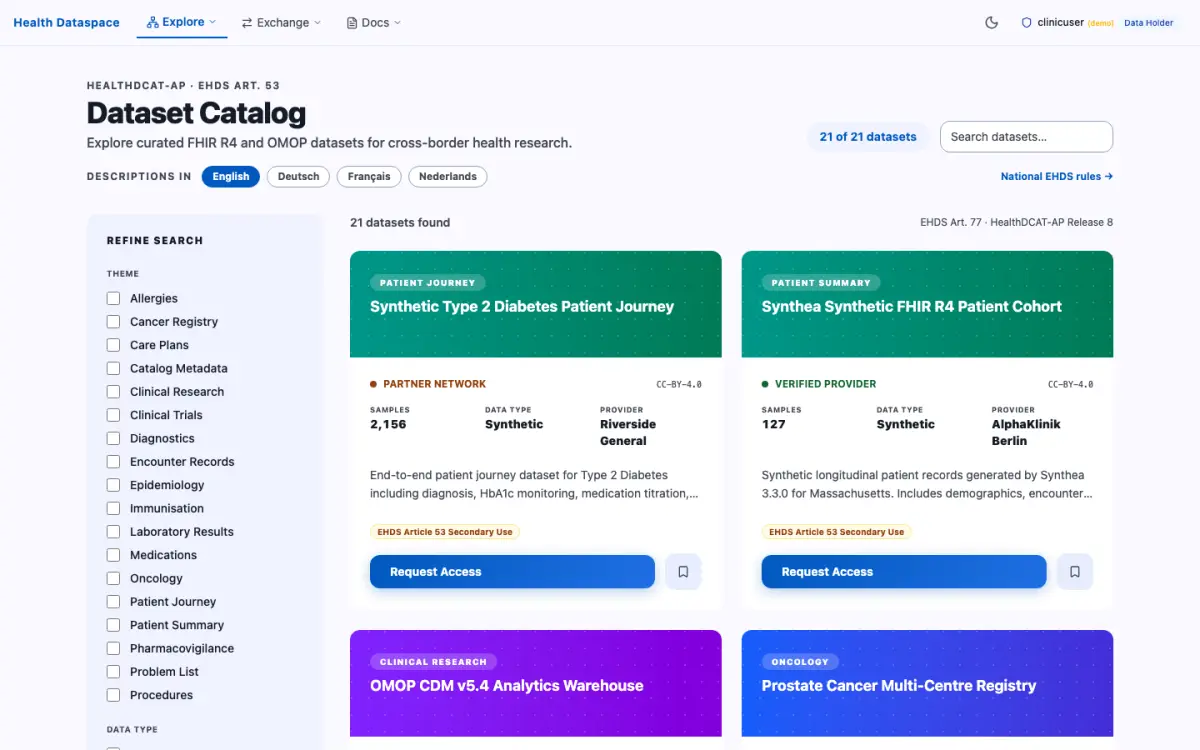
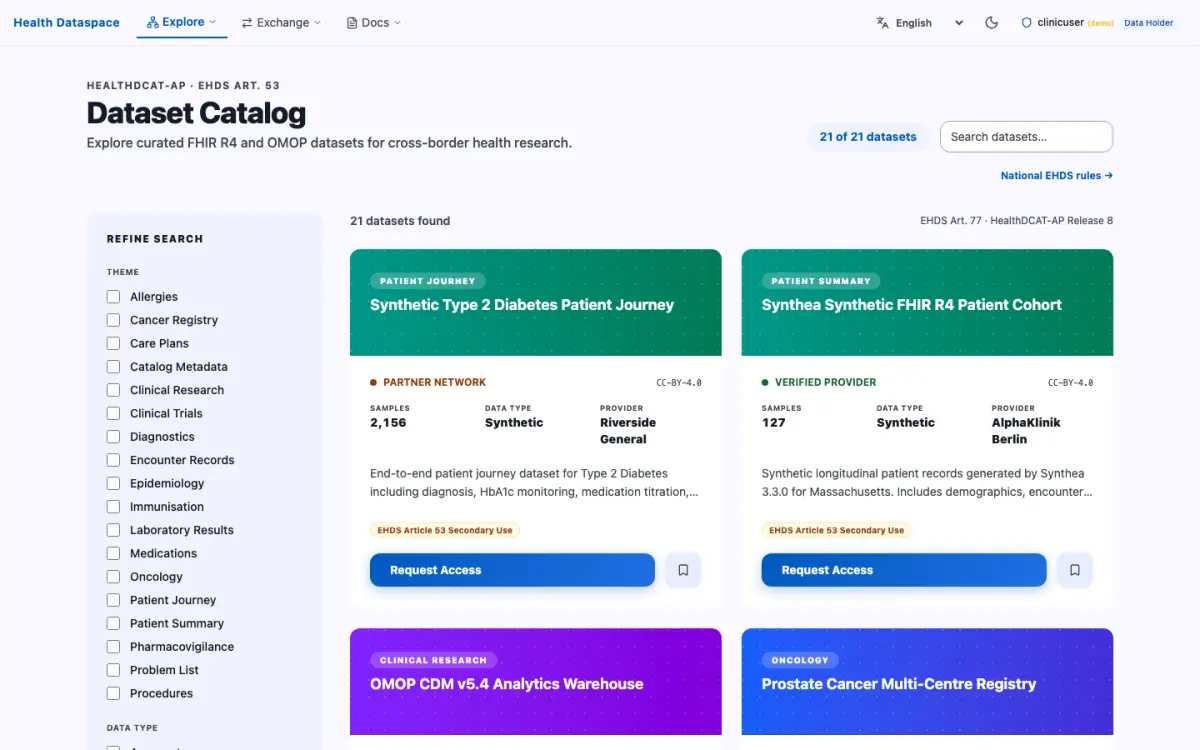
feat(catalog): dataset descriptions in Spanish (#782)
Every dataset is described in Spanish too, in the seed and in the
static catalogue, and the menu bar offers Español. German and Spanish
are the languages of the hub's two national access bodies besides
France (MedReg DE, MedReg ES).

The French and Spanish versions of Regulation (EU) 2025/327 abbreviate
it EEDS, not EHDS (80 times each in the Official Journal text, EHDS
never). The terminology has the abbreviation now, and the check reads
the texts of each language on their own, so EHDS is right in German
and wrong in Spanish. It found the French keyword "utilisation
secondaire EHDS"; now EEDS.

J1011 walks all five languages on the local stack, 8 of 8 in spec 49.
The guide's catalogue and national rules screenshots show the picker in
the menu bar.

diff --git a/ui/__tests__/unit/lib/ehds-terminology.test.ts b/ui/__tests__/unit/lib/ehds-terminology.test.ts
@@ -51,7 +51,7 @@ describe("the EHDS terminology file", () => {
     expect(TERMS.length).toBeGreaterThanOrEqual(13);
     for (const t of TERMS) {
       for (const l of LANGS) expect(t[l], `${t.id} ${l}`).toBeTruthy();
-      expect(t.article, t.id).toMatch(/^Art\. \d+/);
+      expect(t.article, t.id).toMatch(/^(Art\. \d+|Title)/);
     }
   });
 
@@ -74,14 +74,82 @@ describe("the EHDS terminology file", () => {
   });
 });
 
+/**
+ * The texts of each language on the hub, so a term is checked only where it
+ * is wrong: "EHDS" is right in German and wrong in Spanish.
+ */
+function textsByLanguage(): Record<Lang, { where: string; text: string }[]> {
+  const out: Record<Lang, { where: string; text: string }[]> = {
+    en: [],
+    de: [],
+    fr: [],
+    nl: [],
+    es: [],
+  };
+  // The seed: rows like  de: ['title', 'description'],  and the keyword
+  // maps, which end in  } AS de .
+  const seed = SOURCES["neo4j/seed-catalog-translations.cypher"];
+  for (const m of seed.matchAll(
+    /\b(de|fr|nl|es): \[((?:'(?:[^'\\]|\\.)*'|null)(?:, (?:'(?:[^'\\]|\\.)*'|null))*)\]/g,
+  )) {
+    out[m[1] as Lang].push({ where: "seed row", text: m[2] });
+  }
+  for (const m of seed.matchAll(/\{([^{}]*)\}\s+AS (de|fr|nl|es)\b/g)) {
+    const values = [...m[1].matchAll(/: '([^']*)'/g)].map((v) => v[1]);
+    out[m[2] as Lang].push({
+      where: "seed keywords",
+      text: values.join(" | "),
+    });
+  }
+  // The catalogue mock: translations by language.
+  const catalog = JSON.parse(SOURCES["public/mock/catalog.json"]) as {
+    id: string;
+    translations?: Partial<
+      Record<Lang, { title?: string; description?: string }>
+    >;
+  }[];
+  for (const d of catalog) {
+    for (const [l, t] of Object.entries(d.translations ?? {})) {
+      out[l as Lang].push({
+        where: `catalog.json ${d.id}`,
+        text: `${t?.title ?? ""} ${t?.description ?? ""}`,
+      });
+    }
+  }
+  // The national profiles: the role and the laws, in the country's language.
+  const profiles = JSON.parse(SOURCES["public/mock/jurisdictions.json"]) as {
+    jurisdictions: {
+      code: string;
+      languages: string[];
+      accessBodyRole: string;
+      laws: { title: string }[];
+    }[];
+  };
+  for (const j of profiles.jurisdictions) {
+    const text = [j.accessBodyRole, ...j.laws.map((l) => l.title)].join(" | ");
+    for (const l of j.languages) {
+      if (l in out) out[l as Lang].push({ where: `profile ${j.code}`, text });
+    }
+  }
+  return out;
+}
+
 describe("the translations on the hub", () => {
-  for (const [file, text] of Object.entries(SOURCES)) {
-    it(`${file} uses no term the Regulation does not`, () => {
-      const used = TERMS.flatMap((t) =>
-        Object.entries(t.avoid ?? {}).flatMap(([l, words]) =>
-          (words ?? [])
+  const texts = textsByLanguage();
+
+  it("are found in every language they come in", () => {
+    for (const l of ["de", "fr", "nl", "es"] as Lang[]) {
+      expect(texts[l].length, l).toBeGreaterThan(0);
+    }
+  });
+
+  for (const l of ["de", "fr", "nl", "es"] as Lang[]) {
+    it(`in ${l} use no term the Regulation does not`, () => {
+      const used = texts[l].flatMap(({ where, text }) =>
+        TERMS.flatMap((t) =>
+          (t.avoid?.[l] ?? [])
             .filter((w) => usesWord(text, w))
-            .map((w) => `${w} (${l}; the Regulation says "${t[l as Lang]}")`),
+            .map((w) => `${where}: ${w} (the Regulation says "${t[l]}")`),
         ),
       );
       expect(used).toEqual([]);
@@ -95,9 +163,11 @@ describe("the translations on the hub", () => {
       new RegExp(
         "`EHDS secondary use`: '([^']+)'[^}]*}\\s+AS " + map + "\\b",
       ).exec(seed)?.[1];
-    expect(keyword("de")).toContain(secondary.de);
-    expect(keyword("fr")).toContain(secondary.fr);
-    expect(keyword("nl")).toContain(secondary.nl);
+    const abbreviation = TERMS.find((t) => t.id === "ehds-abbreviation")!;
+    for (const l of ["de", "fr", "nl", "es"] as Lang[]) {
+      expect(keyword(l), l).toContain(secondary[l]);
+      expect(keyword(l), l).toContain(abbreviation[l]);
+    }
   });
 
   it("call a health data access body by its name in the national profiles", () => {

diff --git a/ui/__tests__/unit/components/LanguagePicker.test.tsx b/ui/__tests__/unit/components/LanguagePicker.test.tsx
@@ -18,7 +18,7 @@ afterEach(() => {
 });
 
 describe("LanguagePicker", () => {
-  it("offers English, German, French and Dutch, each in its own name", () => {
+  it("offers English, German, French, Dutch and Spanish, each in its own name", () => {
     render(<LanguagePicker />);
     const select = screen.getByRole("combobox", { name: "Language" });
     const options = Array.from(select.querySelectorAll("option")).map((o) => [
@@ -31,6 +31,7 @@ describe("LanguagePicker", () => {
       ["de", "Deutsch", "de"],
       ["fr", "Français", "fr"],
       ["nl", "Nederlands", "nl"],
+      ["es", "Español", "es"],
     ]);
   });
 

diff --git a/ui/src/lib/use-language.ts b/ui/src/lib/use-language.ts
@@ -19,7 +19,13 @@ import {
 } from "@/lib/metadata-language";
 
 /** The languages the menu offers: those the hub has descriptions in. */
-export const OFFERED_LANGUAGES: CatalogLanguage[] = ["en", "de", "fr", "nl"];
+export const OFFERED_LANGUAGES: CatalogLanguage[] = [
+  "en",
+  "de",
+  "fr",
+  "nl",
+  "es",
+];
 
 const emitter: EventTarget | null =
   typeof window !== "undefined" ? new EventTarget() : null;

diff --git a/ui/src/app/jurisdictions/page.tsx b/ui/src/app/jurisdictions/page.tsx
@@ -245,7 +245,8 @@ export default function JurisdictionsPage() {
             <Link href="/catalog" className="text-(--accent) underline">
               catalogue
             </Link>{" "}
-            are available in German, and some in French and Dutch.
+            are available in German and Spanish, and some in French and Dutch;
+            pick the language in the menu bar.
           </p>
         </div>
 

diff --git a/docs/knowledge/datamodels/healthdcat-ap.md b/docs/knowledge/datamodels/healthdcat-ap.md
@@ -70,10 +70,12 @@ CI validates the Turtle and checks it is the same graph
 Languages (#782): English is the source language. A translation is the same
 property with the language as suffix (`titleDe`, `descriptionDe`,
 `hdcatapKeywordsDe`, and `Fr`, `Nl`, `Es`), set by
-`neo4j/seed-catalog-translations.cypher`: German for every dataset, French
-and Dutch where the dataset comes from a country that speaks them. The
+`neo4j/seed-catalog-translations.cypher`: German and Spanish for every
+dataset, French and Dutch where the dataset comes from a country that speaks
+them, with the terms of `ui/src/lib/i18n/ehds-terminology.json` (French and
+Spanish abbreviate the Regulation EEDS). The
 serialiser writes `dct:title`, `dct:description` and `dcat:keyword` as values
 tagged with their language (one value per language, as DCAT-AP asks), and the
-catalogue page shows the language a visitor picks, falling back to English
+catalogue shows the language a visitor picks in the menu bar, falling back to English
 per text and marking the fallback. The editor does not take translations yet,
 and the `catalog_search` fulltext index reads the English texts only.
